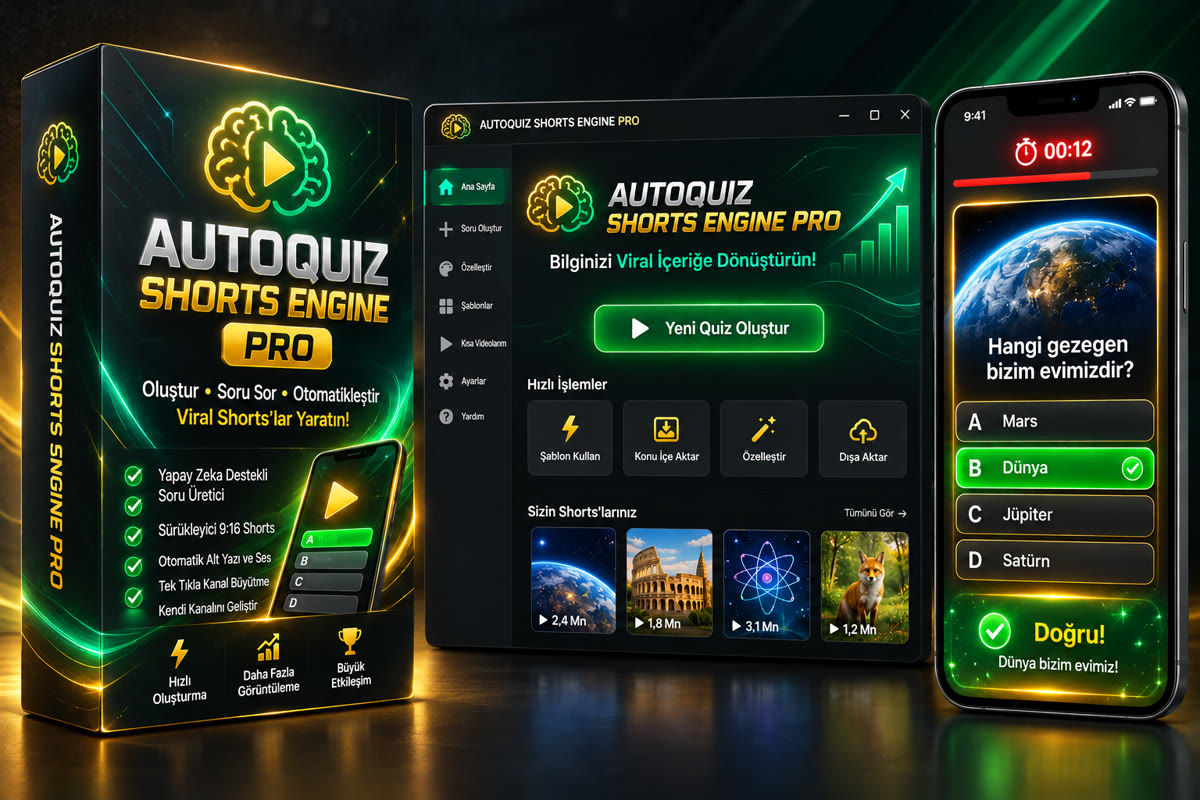
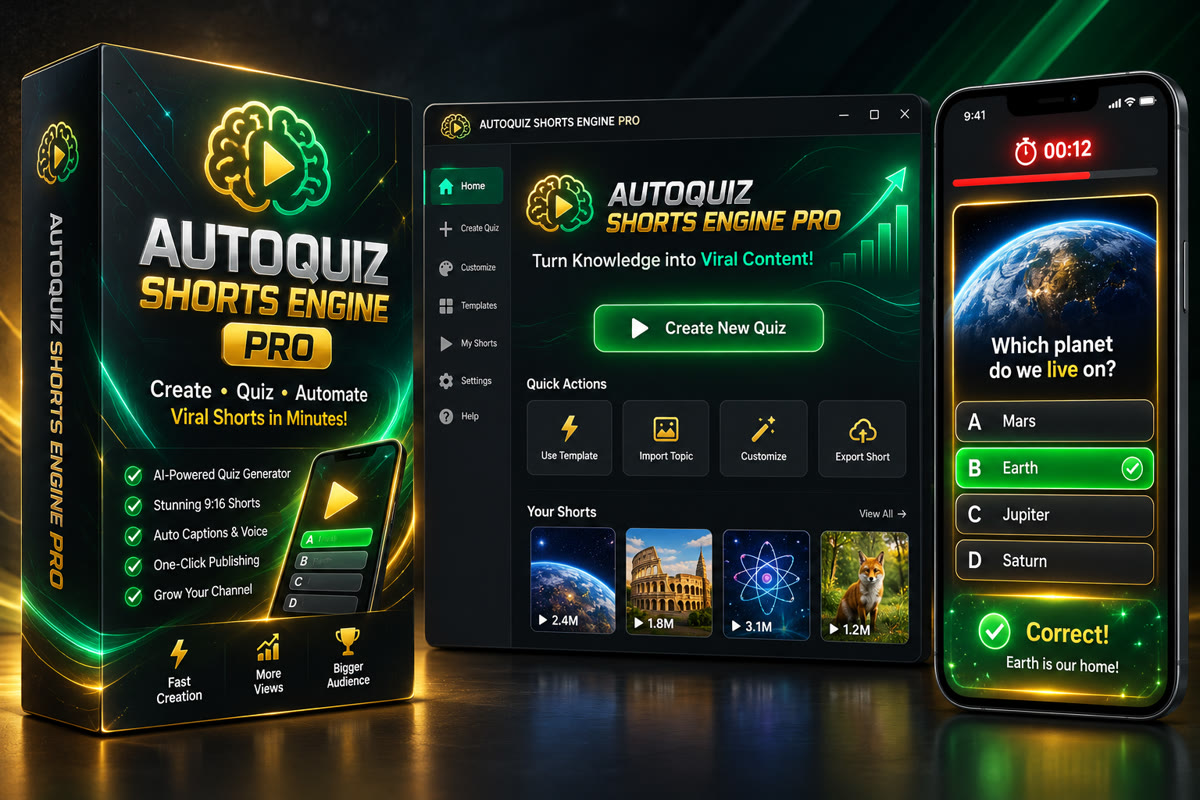
Ürünler: AutoQuiz kapağı İngilizce sürümle değiştirildi
Claude-Session: https://claude.ai/code/session_01GRiijyG2qDNNMNDkeBWSRm

diff --git a/urunler.html b/urunler.html
@@ -119,7 +119,7 @@ footer { border-top: 1px solid var(--line); padding: 18px 0; color: var(--muted)
     </div>
   </article>
   <article class="card">
-    <div class="pic"><img src="magaza/autoquiz-kapak.jpg" alt="AutoQuiz Shorts Engine PRO" loading="lazy"></div>
+    <div class="pic"><img src="magaza/autoquiz-kapak.jpg?v=2" alt="AutoQuiz Shorts Engine PRO" loading="lazy"></div>
     <div class="body">
       <span class="tag">Windows programı · İngilizce</span>
       <h2>AutoQuiz Shorts Engine PRO</h2>
